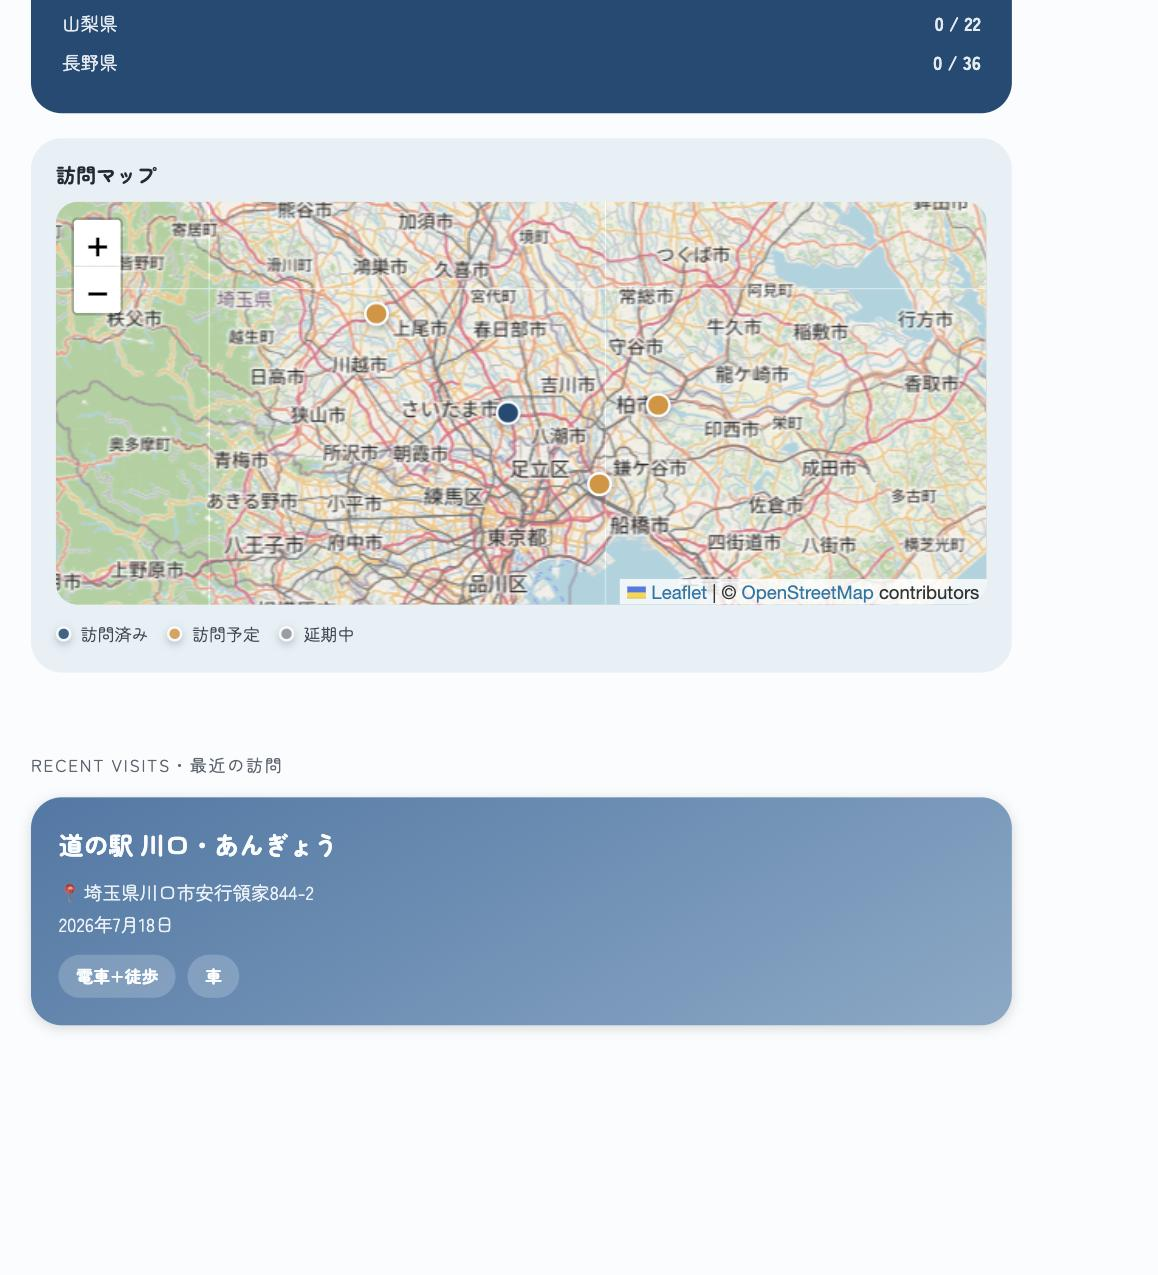
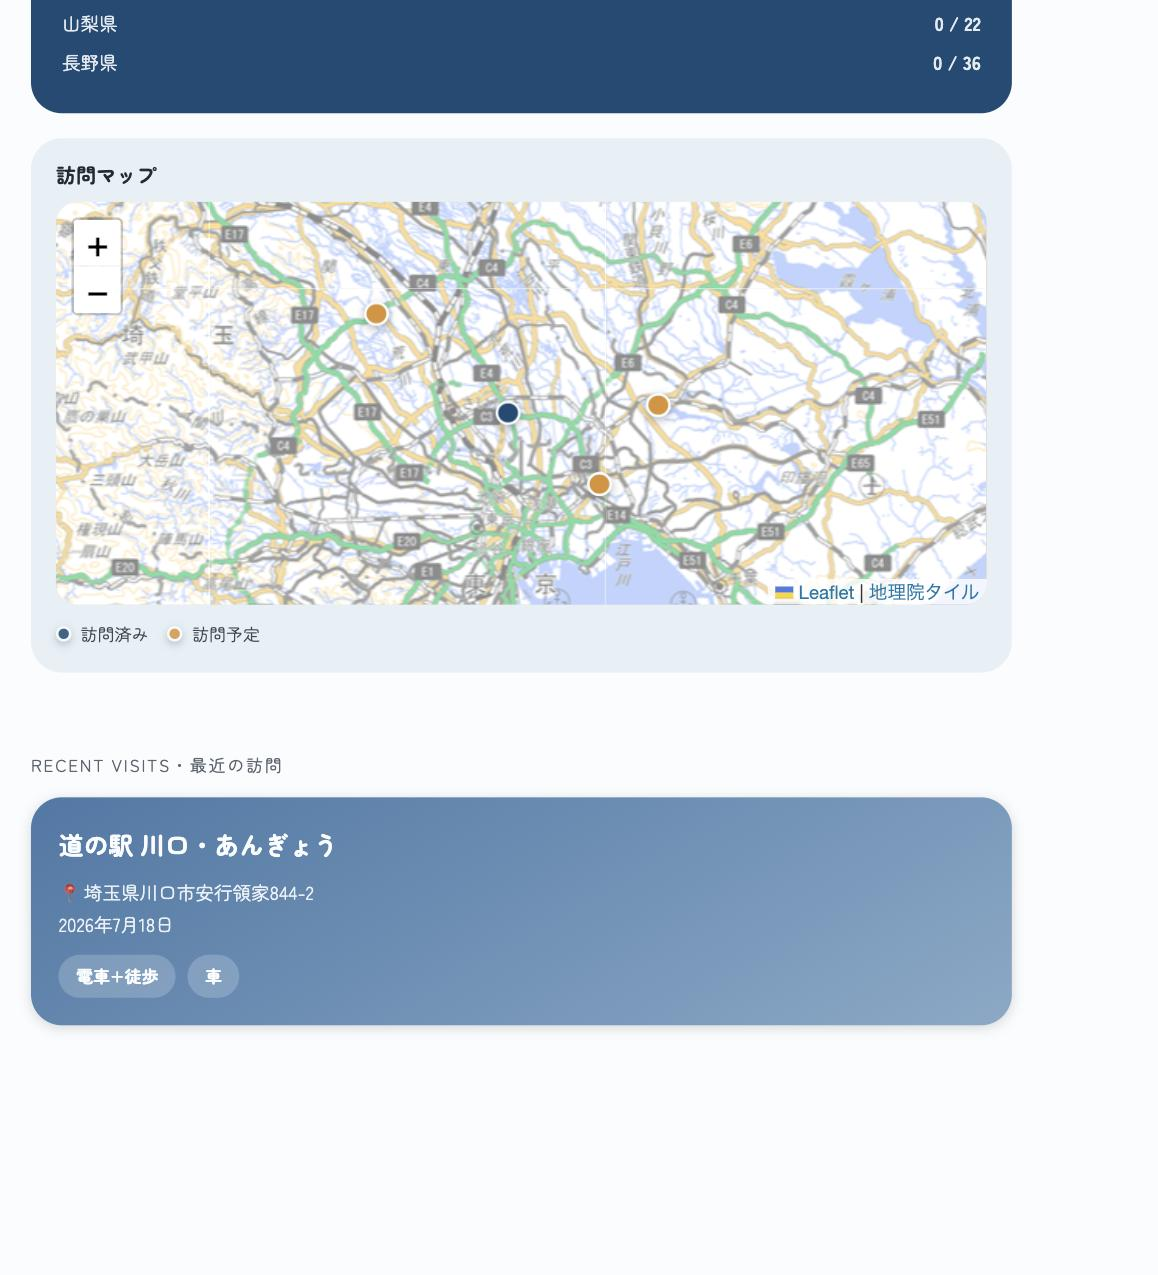
訪問マップから延期中ステータスを除外し、タイルをイラスト風に変更する
地理院タイル「淡色地図」に切り替え、日本語の地名表示を保ちつつ
柔らかい配色にした。延期中の道の駅は地図・凡例から非表示にする。

Claude-Session: https://claude.ai/code/session_01KCTwy4WpMMPbm78Jchi3Mm

Changed region(s): [[0.0311, 0.1529, 0.8705, 0.52]]

diff --git a/website/app/components/VisitMap.tsx b/website/app/components/VisitMap.tsx
@@ -11,7 +11,6 @@ interface VisitMapProps {
 const STATUS_LABEL: Record<MapStation['visitStatus'], string> = {
   visited: '訪問済み',
   planned: '訪問予定',
-  postponed: '延期中',
 }
 
 export default function VisitMap({ stations }: VisitMapProps) {
@@ -39,9 +38,9 @@ export default function VisitMap({ stations }: VisitMapProps) {
         map.fitBounds(bounds, { padding: [32, 32] })
       }
 
-      L.tileLayer('https://{s}.tile.openstreetmap.org/{z}/{x}/{y}.png', {
-        attribution: '&copy; <a href="https://www.openstreetmap.org/copyright">OpenStreetMap</a> contributors',
-        maxZoom: 19,
+      L.tileLayer('https://cyberjapandata.gsi.go.jp/xyz/pale/{z}/{x}/{y}.png', {
+        attribution: '<a href="https://maps.gsi.go.jp/development/ichiran.html" target="_blank" rel="noopener noreferrer">地理院タイル</a>',
+        maxZoom: 18,
       }).addTo(map)
 
       resizeObserver = new ResizeObserver(() => map?.invalidateSize())
@@ -106,10 +105,6 @@ export default function VisitMap({ stations }: VisitMapProps) {
         <li className="visit-map-legend-item">
           <span className="visit-map-icon-dot visit-map-icon-dot--planned" />
           訪問予定
-        </li>
-        <li className="visit-map-legend-item">
-          <span className="visit-map-icon-dot visit-map-icon-dot--postponed" />
-          延期中
         </li>
       </ul>
     </div>

diff --git a/website/app/data/mapStations.ts b/website/app/data/mapStations.ts
@@ -1,24 +1,23 @@
 import { allStations } from './stationsSource'
-import type { VisitStatus } from './stationsTypes'
 
 export interface MapStation {
   slug: string
   title: string
   address: string
-  visitStatus: VisitStatus
+  visitStatus: 'visited' | 'planned'
   visitDate: string | null
   lat: number
   lng: number
 }
 
-// 緯度経度が判明している道の駅のみ地図に表示する
+// 緯度経度が判明していて、延期中ではない道の駅のみ地図に表示する
 export const mapStations: MapStation[] = allStations
-  .filter((s) => s.coordinates)
+  .filter((s) => s.coordinates && s.visitStatus !== 'postponed')
   .map((s) => ({
     slug: s.slug,
     title: s.title,
     address: s.address,
-    visitStatus: s.visitStatus,
+    visitStatus: s.visitStatus as 'visited' | 'planned',
     visitDate: s.visitDate,
     lat: s.coordinates!.lat,
     lng: s.coordinates!.lng,

diff --git a/website/app/styles/style.css b/website/app/styles/style.css
@@ -726,10 +726,6 @@ dt:first-child {
   background: oklch(72% 0.14 70);
 }
 
-.visit-map-icon-dot--postponed {
-  background: oklch(65% 0.01 250);
-}
-
 .leaflet-div-icon.visit-map-icon {
   background: transparent;
   border: none;
@@ -765,10 +761,6 @@ dt:first-child {
 
 .visit-map-popup-status--planned {
   color: oklch(55% 0.15 70);
-}
-
-.visit-map-popup-status--postponed {
-  color: oklch(50% 0.01 250);
 }
 
 .visit-map-popup-link {